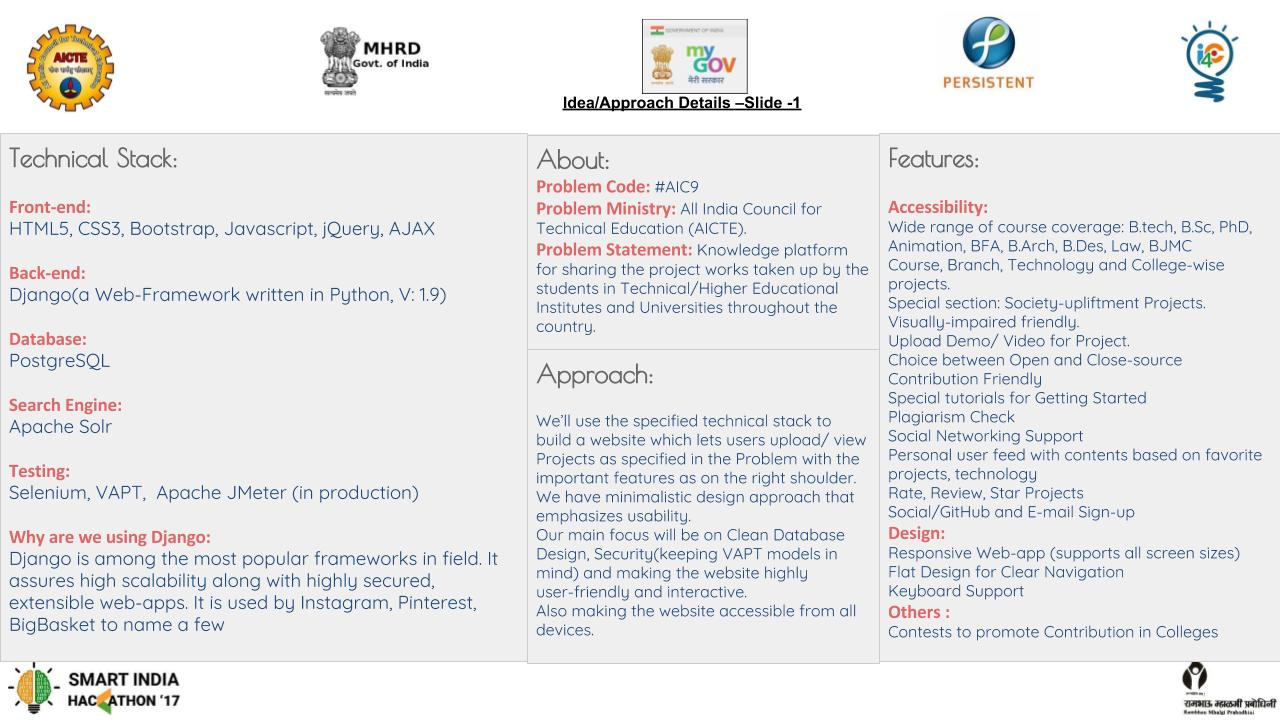
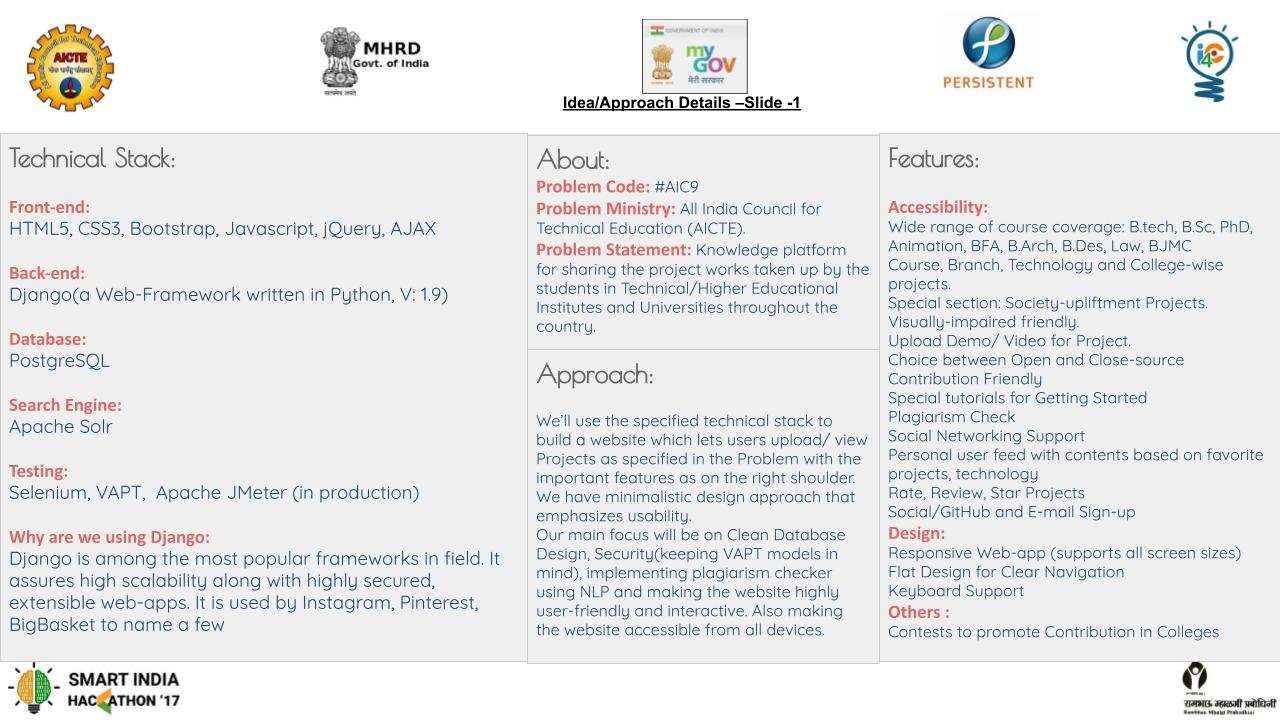
Update ReadMe

diff --git a/README.md b/README.md
@@ -6,9 +6,9 @@ Many good initiatives by students in the form of project is presently going   un
 Knowledge platform for sharing the project works taken up by the students in Technical/Higher Educational Institutes and Universities throughout the country
 
 #### Team Members
+[Puneet](http://github.com/puneetkakkar91)
 [Sachin](http://github.com/suresach)  
-[Mannu](http://github.com/theparadoxer02)    
-[Puneet](http://github.com/puneetkakkar91)    
+[Mannu](http://github.com/theparadoxer02)        
 [Shweta](http://github.com/cosmologist10)           
 
 ### Key features :- 
@@ -18,6 +18,7 @@ Knowledge platform for sharing the project works taken up by the students in Tec
 3. **AJAX Search**
 4. **Python Social-signup**
 5. **Uploaded Project Rating support** 
+6. **Plagiarism Checker using Natural Language Processing (NLP)**
 
 ![Screenshot](docs/Technical-stack.jpg)    
 
